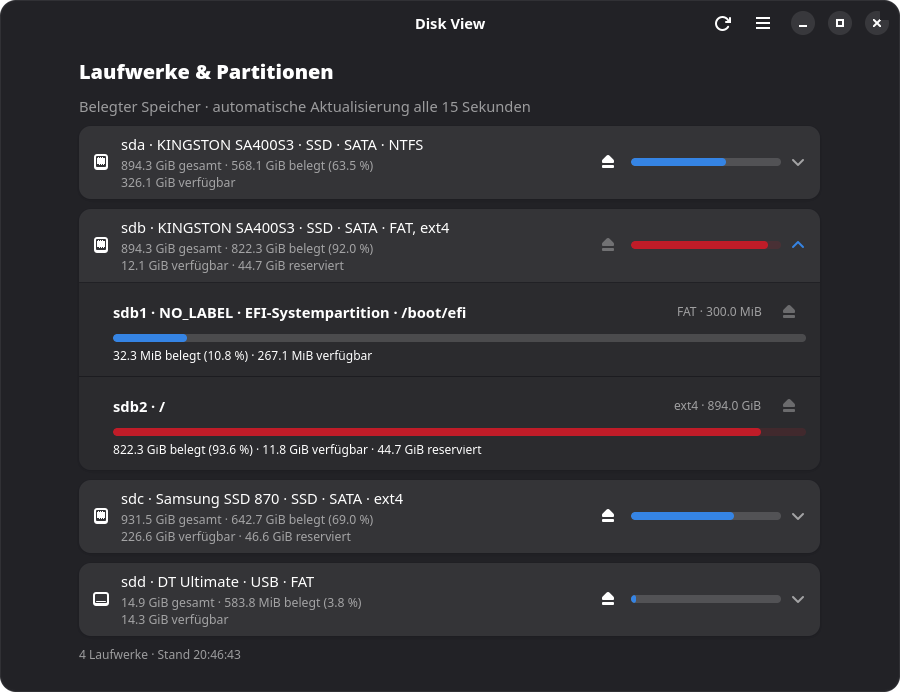
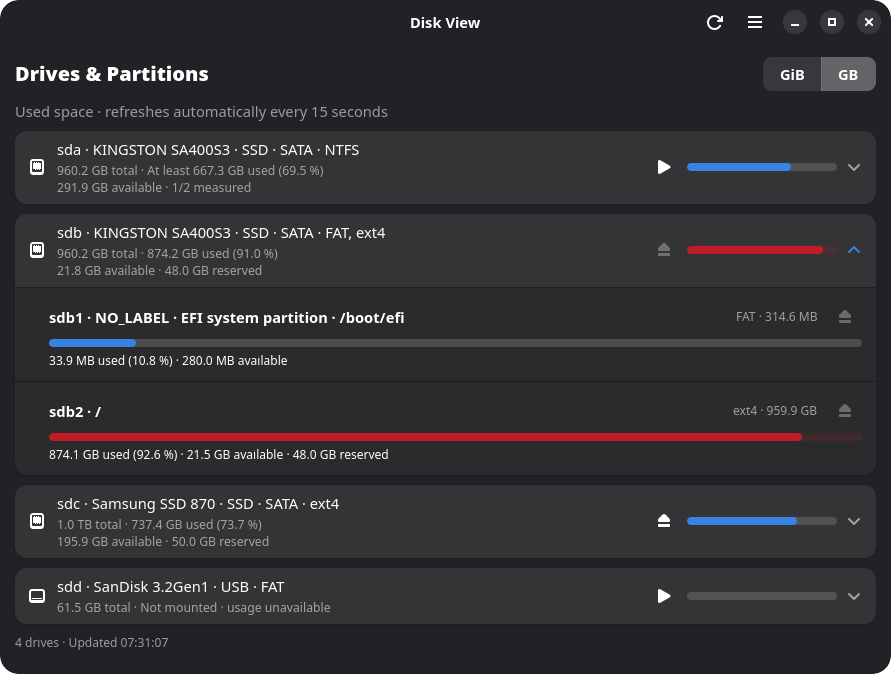
docs: separate contributor guidance and refresh screenshot

diff --git a/README.md b/README.md
@@ -61,50 +61,40 @@ native horizontal GTK progress bars.
 
 ## Requirements
 
-Linux, Crystal 1.21+, Shards, GTK4, libadwaita 1.5+, libudev and GObject Introspection.
-Mount/unmount actions additionally require UDisks2, a system D-Bus and a desktop
-polkit authentication agent. Discovery and usage display work without UDisks2.
-Building also requires GNU gettext tools and `glib-compile-resources` (provided
-by the GLib development packages); the icon is embedded in the executable.
+Linux and a graphical session. Mount/unmount actions additionally require
+UDisks2, a system D-Bus and a desktop polkit authentication agent. Discovery and
+usage display work without UDisks2.
 
-On Arch / Manjaro:
+## Install
 
-```sh
-sudo pacman -S --needed base-devel crystal shards gtk4 libadwaita gobject-introspection gettext systemd-libs udisks2 polkit
-```
+Download the Linux x86_64 AppImage or standalone Flatpak bundle from
+[GitHub Releases](https://github.com/magynhard/disk-view.cr/releases). Both include
+all ten application languages and have separate SHA-256 files.
 
-On Debian / Ubuntu:
-
-```sh
-sudo apt install build-essential crystal shards libgtk-4-dev libadwaita-1-dev libgirepository1.0-dev gobject-introspection gir1.2-gtk-4.0 gir1.2-adw-1 gettext libudev-dev udisks2 polkitd
-```
-
-Your distribution may require installing a current Crystal compiler and Shards
-separately. A graphical session is required to run the application.
-
-## Run
+The AppImage bundles GTK4, libadwaita and the other application libraries. It
+requires glibc 2.39 or newer. Make the downloaded file executable and run it:
 
 ```sh
-make setup
-make run
+chmod +x Disk_View-VERSION-x86_64.AppImage
+./Disk_View-VERSION-x86_64.AppImage
 ```
 
-`make setup` downloads the Crystal bindings and generates them for your installed
-GTK version. Run it again after updating the dependencies or system libraries.
+Replace `VERSION` with the downloaded version. If FUSE is unavailable, append
+`--appimage-extract-and-run` to the run command.
 
-For the correct icon in the desktop dock/taskbar, install the application once
-using the user installation below. This registers the desktop entry and icon
-with the desktop shell, including for subsequent `make run` launches. The
-embedded icon alone is sufficient for the About dialog, but desktop shells
-such as GNOME on Wayland look up the application's installed desktop entry.
-Restart Disk View after installing it.
+The Flatpak bundle requires Flatpak 1.17 or newer and the GNOME Platform 51
+runtime. Install and run it with:
 
 ```sh
-make build                         # Creates bin/disk-view
-./bin/disk-view
-make test                          # Headless discovery/parser and usage tests
-crystal tool format --check src/ spec/
+flatpak remote-add --user --if-not-exists flathub https://flathub.org/repo/flathub.flatpakrepo
+flatpak install --user flathub org.gnome.Platform//51
+flatpak install --user Disk_View-VERSION-x86_64.flatpak
+flatpak run de.magynhard.DiskView
 ```
+
+For building and installing from source, see [Contributing](CONTRIBUTING.md).
+
+## Usage
 
 Use the header-bar menu for **About Disk View**, refresh and close. Keyboard
 shortcuts: `Ctrl+R` to refresh, `F1` for About, and `Ctrl+W` to close.
@@ -124,85 +114,12 @@ operations are attempted and the individual failures are shown; completed
 operations are not rolled back. Closing the window or dismissing a polkit
 authorization dialog stops subsequent requests.
 
-## Install
-
-Install the executable, desktop launcher and icon for your user:
-
-```sh
-make install PREFIX="$HOME/.local"
-```
-
-Ensure `~/.local/bin` is on your `PATH`. For a system-wide installation use
-`sudo make install` (default prefix: `/usr/local`). Uninstall with
-`make uninstall PREFIX="$HOME/.local"`, or `sudo make uninstall` respectively.
-Translations are installed under `share/locale` relative to the installation
-prefix. The executable needs no source files; when distributing it, include
-the translation catalogs to retain localized interfaces.
-
-## Releases
-
-AppImage and local Flatpak package builds are available:
-
-```sh
-make appimage
-make flatpak
-```
-
-Both commands create versioned packages and SHA-256 files in `dist/`. The GitHub
-Actions workflow attaches them to newly published releases. AppImage builds use
-an Ubuntu 24.04 container and include GTK/Adwaita and translations. Flatpak builds
-use GNOME SDK 51, offline sources and explicit host-disk access.
-
-See [Linux packaging](doc/packaging.md) for prerequisites, testing and release
-steps. It also explains the current Flathub inclusion/AI-manifest restrictions
-and the remaining manual submission work. The generated Flatpak manifest is for
-local builds, not a Flathub submission.
-
-Download the Linux x86_64 AppImage or standalone Flatpak bundle from
-[GitHub Releases](https://github.com/magynhard/disk-view.cr/releases). Both include
-all ten application languages and have separate SHA-256 files. The AppImage also
-bundles GTK4, libadwaita and the other application libraries; Flatpak uses the
-GNOME runtime. See [Linux packaging](doc/packaging.md) for installation details.
-
-Build an optimized executable from source with:
-
-```sh
-make build CRYSTAL_FLAGS="--release --no-debug"
-```
-
 ## Translations
 
 GNU gettext selects the interface language at startup using `LANGUAGE`,
 `LC_ALL`, `LC_MESSAGES` and `LANG`. Unsupported languages fall back to English;
 the `C` and `POSIX` locales use English. The requested system locale must be
 installed on the machine. GTK/Adwaita also use their own system translations.
-
-To test another language with an available UTF-8 locale:
-
-```sh
-LC_ALL=en_US.UTF-8 LANGUAGE=fr ./bin/disk-view
-LC_ALL=en_US.UTF-8 LANGUAGE=ja ./bin/disk-view
-```
-
-Close an existing Disk View instance first, since subsequent launches activate
-the existing application. Korean and Japanese use standard `ko` and `ja`
-catalog names (the same languages listed as `kr` and `jp` in Goblin Converter).
-
-Catalog sources are in `po/<language>/LC_MESSAGES/`. `make build` and `make test`
-compile them automatically. During development, catalogs are read from `po/`;
-installed binaries find them relative to their own installation prefix.
-
-```sh
-make locales                       # Compile and validate PO → MO catalogs
-make generate_locales              # Extract messages and update existing PO files
-```
-
-After changing translatable strings, run `make generate_locales`, complete the
-translations and run `make test`. Add source files containing translation calls
-to `po/POTFILES`, and add new language codes to `po/LINGUAS`. Translations use
-named placeholders such as `%{size}`; keep their names and escape literal
-percent signs as `%%` in formatted messages. Locale-dependent specs require
-an installed non-C UTF-8 locale and are marked pending if none is available.
 
 ## Scope
 

diff --git a/CONTRIBUTING.md b/CONTRIBUTING.md
@@ -1,0 +1,110 @@
+# Contributing to Disk View
+
+## Development requirements
+
+Building requires Linux, Crystal 1.21+, Shards, GTK4, libadwaita 1.5+, libudev,
+GObject Introspection, GNU gettext tools and `glib-compile-resources` (provided by
+the GLib development packages). A graphical session is required to run the app.
+Mount/unmount actions additionally require UDisks2, a system D-Bus and a desktop
+polkit authentication agent.
+
+On Arch / Manjaro:
+
+```sh
+sudo pacman -S --needed base-devel crystal shards gtk4 libadwaita gobject-introspection gettext systemd-libs udisks2 polkit
+```
+
+On Debian / Ubuntu:
+
+```sh
+sudo apt install build-essential crystal shards libgtk-4-dev libadwaita-1-dev libgirepository1.0-dev gobject-introspection gir1.2-gtk-4.0 gir1.2-adw-1 gettext libudev-dev udisks2 polkitd
+```
+
+Your distribution may require installing a current Crystal compiler and Shards
+separately.
+
+## Build and run
+
+```sh
+make setup
+make run
+```
+
+`make setup` downloads the Crystal bindings and generates them for your installed
+GTK version. Run it again after updating the dependencies or system libraries.
+
+```sh
+make build                         # Creates bin/disk-view
+./bin/disk-view
+make test                          # Headless discovery/parser and usage tests
+crystal tool format --check src/ spec/
+```
+
+Build an optimized executable with:
+
+```sh
+make build CRYSTAL_FLAGS="--release --no-debug"
+```
+
+To install the executable, desktop launcher and icon for your user:
+
+```sh
+make install PREFIX="$HOME/.local"
+```
+
+Ensure `~/.local/bin` is on your `PATH`. For a system-wide installation use
+`sudo make install` (default prefix: `/usr/local`). Uninstall with
+`make uninstall PREFIX="$HOME/.local"`, or `sudo make uninstall` respectively.
+Translations are installed under `share/locale` relative to the installation
+prefix. The executable needs no source files; when distributing it, include the
+translation catalogs to retain localized interfaces.
+
+Installing the desktop entry and icon also ensures the correct icon in the
+desktop dock/taskbar for subsequent `make run` launches. Restart Disk View after
+installing it.
+
+## Translations
+
+To test another language with an available UTF-8 locale:
+
+```sh
+LC_ALL=en_US.UTF-8 LANGUAGE=fr ./bin/disk-view
+LC_ALL=en_US.UTF-8 LANGUAGE=ja ./bin/disk-view
+```
+
+Close an existing Disk View instance first, since subsequent launches activate
+the existing application. Korean and Japanese use standard `ko` and `ja`
+catalog names (the same languages listed as `kr` and `jp` in Goblin Converter).
+
+Catalog sources are in `po/<language>/LC_MESSAGES/`. `make build` and `make test`
+compile them automatically. During development, catalogs are read from `po/`;
+installed binaries find them relative to their own installation prefix.
+
+```sh
+make locales                       # Compile and validate PO → MO catalogs
+make generate_locales              # Extract messages and update existing PO files
+```
+
+After changing translatable strings, run `make generate_locales`, complete the
+translations and run `make test`. Add source files containing translation calls
+to `po/POTFILES`, and add new language codes to `po/LINGUAS`. Translations use
+named placeholders such as `%{size}`; keep their names and escape literal
+percent signs as `%%` in formatted messages. Locale-dependent specs require
+an installed non-C UTF-8 locale and are marked pending if none is available.
+
+## Packaging and releases
+
+```sh
+make appimage
+make flatpak
+```
+
+Both commands create versioned packages and SHA-256 files in `dist/`. The GitHub
+Actions workflow attaches them to newly published releases. AppImage builds use
+an Ubuntu 24.04 container and include GTK/Adwaita and translations. Flatpak builds
+use GNOME SDK 51, offline sources and explicit host-disk access.
+
+See [Linux packaging](doc/packaging.md) for prerequisites, testing and release
+steps. It also explains the current Flathub inclusion/AI-manifest restrictions
+and the remaining manual submission work. The generated Flatpak manifest is for
+local builds, not a Flathub submission.
